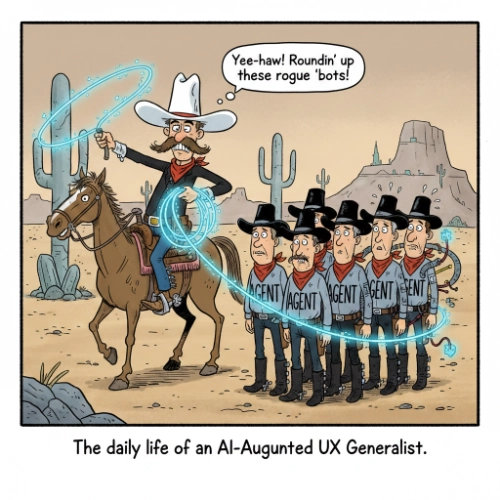
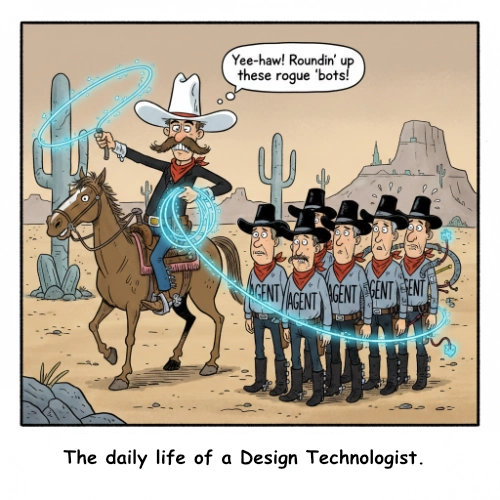
feat(arch): unify visual ownership & implement 3-phase a11y handshake
- Integrated 'Creative Director' ownership into index prose for site-wide visual context.
- Implemented <picture> tags for WebP/JPG art direction across project slides.
- Synchronized 2-stage Alt-Text (Preview vs. Full size) for 'Diagnostic Empathy' narrative.
- Refactored script.js to dynamically update aria-label/aria-controls on title-links.
- Aligned 'Design Technologist' cartoon title with updated project branding.

Changed region(s): [[0.12, 0.87, 0.84, 0.93]]

diff --git a/projects.html b/projects.html
@@ -92,7 +92,7 @@
                   <img
                     src="images/modern-tic-tac-toe-md.webp"
                     class="slideshow__image"
-                    alt="UI of a Tic-Tac-Toe game using the Minimax algorithm"
+                    alt="Preview: A 'Cyber-Theme' Tic-Tac-Toe game board engineered by David Villers. The view is focused on the neon-green hex-grid and custom microprocessor CPU icons, with the difficulty controls partially cropped at the top."
                     data-target="#tic-tac-toe-details"
                   />
                 </div>
@@ -100,7 +100,7 @@
                   <img
                     src="images/todo-app-md.webp"
                     class="slideshow__image"
-                    alt="TaskMaster interface showing dark mode and persistent state task management"
+                    alt="Preview: The 'TaskMaster' dark-mode interface engineered by David Villers. A high-contrast task list featuring active input controls and a visible theme-engine toggle."
                     data-target="#to-do-app-details"
                   />
                 </div>
@@ -108,17 +108,19 @@
                   <img
                     src="images/portfolio-screenshot-01-md.webp"
                     class="slideshow__image"
-                    alt="Portfolio homepage showcasing fluid typography and BEM architecture"
+                    alt="Preview: A development screenshot of the portfolio built by David Villers. The view centers on David’s professional portrait and the 'Human-Centric' introduction header, with the navigational and technical sections of the interface cropped out."
                     data-target="#portfolio-details"
                   />
                 </div>
                 <div class="slideshow__slide" data-title="Interface & Integration: Asynchronous Data">
-                  <img
-                    src="images/api-fun-center-md.webp"
-                    class="slideshow__image"
-                    alt="Dashboard integrating multiple third-party asynchronous API streams"
-                    data-target="#api-fun-center-details"
-                  />
+                  <picture>
+                    <source srcset="images/api-fun-center-md.webp" type="image/webp" />
+                    <img
+                      src="images/api-fun-center-md.jpg"
+                      class="slideshow__image"
+                      alt="Preview: The 'Ultimate API Fun Center' dashboard engineered by David Villers. This view focuses on the 'Useless Fact' and 'Cat Fact' generator cards with interactive blue and purple buttons, representing the primary asynchronous data streams."
+                    />
+                  </picture>
                 </div>
 
                 <a
@@ -182,8 +184,15 @@
       <section class="feature-block feature-block--first" id="project-intro">
         <div class="feature-block__grid">
           <div class="feature-block__media">
-            <img src="images/dain-miller-sadle-reigns-quote-md.webp" alt="Diverse group" class="feature-block__image" />
+            <picture>
+              <source srcset="images/dain-miller-sadle-reigns-quote-md.webp" type="image/webp" />
+              <img
+                src="images/dain-miller-sadle-reigns-quote-md.jpg"
+                alt="A transcendental silhouette of a horse and rider, where the internal forms are composed of a swirling cosmic universe and astrological energy lines. The horse’s tail subtly breaks the light-grey focal boundary into the outer white frame, symbolizing the kinetic energy and uncontained power of a perfectly calibrated 'Flow State' between Pilot and System."
+                class="feature-block__image"
+            /></picture>
           </div>
+
           <div class="feature-block__content">
             <h2 class="feature-block__title--column">Systems-Driven Engineering: The Auditor’s Archive</h2>
 
@@ -208,8 +217,15 @@
       <section id="tic-tac-toe-details" class="feature-block feature-block--alt" tabindex="-1">
         <div class="feature-block__grid feature-block__grid--reverse">
           <div class="feature-block__media">
-            <img src="images/modern-tic-tac-toe-md.webp" alt="Tic-Tac-Toe" class="feature-block__image" />
+            <picture>
+              <source srcset="images/modern-tic-tac-toe-md.webp" type="image/webp" />
+              <img
+                src="images/modern-tic-tac-toe-md.jpg"
+                alt="Full size: The high-contrast Tic-Tac-Toe interface by David Villers. This uncropped view reveals the full 'Cyber-Theme' UI, including the Easy, Medium, and Hard difficulty selectors. The board showcases custom user icons and microprocessor CPU icons, illustrating the Minimax algorithm's recursive state evaluation and HTML5 Canvas integration."
+                class="feature-block__image"
+            /></picture>
           </div>
+
           <div class="feature-block__content">
             <h2 class="feature-block__title--column">Logic & State: Recursive Engineering</h2>
 
@@ -240,8 +256,16 @@
       <section id="to-do-app-details" class="feature-block" tabindex="-1">
         <div class="feature-block__grid">
           <div class="feature-block__media">
-            <img src="images/todo-app-md.webp" alt="To-Do App" class="feature-block__image" />
+            <picture>
+              <source srcset="images/todo-app-md.webp" type="image/webp" />
+              <img
+                src="images/todo-app-md.jpg"
+                alt="Full size: The high-fidelity 'TaskMaster' interface by David Villers. This view confirms the accessible dark-mode UI, featuring the red 'delete' controls and the grey 'Undo' state-history buffer. The sun-icon toggle demonstrates the CSS Variable-driven Theme Engine designed for inclusive, high-contrast usability."
+                class="feature-block__image"
+              />
+            </picture>
           </div>
+
           <div class="feature-block__content">
             <h2 class="feature-block__title--column">Inclusive Design: Persistent Task Architectures</h2>
 
@@ -275,7 +299,13 @@
       <section id="portfolio-details" class="feature-block feature-block--alt" tabindex="-1">
         <div class="feature-block__grid feature-block__grid--reverse">
           <div class="feature-block__media">
-            <img src="images/portfolio-screenshot-01-md.webp" alt="Portfolio Case Study" class="feature-block__image" />
+            <picture>
+              <source srcset="images/portfolio-screenshot-01-md.webp" type="image/webp" />
+              <img
+                src="images/portfolio-screenshot-01-md.jpg"
+                alt="Full size: A mobile-responsive development screenshot of the portfolio by creator David Villers. This uncropped view reveals the full layout, including the top navigation bar with a magenta menu. It showcases David’s portrait against a background of 'conceptual noise,' serving as a visual metaphor for his ability to refactor complex data into the high-performance digital architecture seen here."
+                class="feature-block__image"
+            /></picture>
           </div>
           <div class="feature-block__content">
             <h2 class="feature-block__title--column">The Meta-Study: Systemic Design Engineering</h2>
@@ -316,7 +346,13 @@
       <section id="api-fun-center-details" class="feature-block" tabindex="-1">
         <div class="feature-block__grid">
           <div class="feature-block__media">
-            <img src="images/api-fun-center-md.webp" alt="API Fun Center" class="feature-block__image" />
+            <picture>
+              <source srcset="images/api-fun-center-md.webp" type="image/webp" />
+              <img
+                src="images/api-fun-center-md.jpg"
+                alt="Full size: The 'Ultimate API Fun Center' dashboard by creator David Villers. This uncropped architectural view reveals the complete modular layout, including the 'Random Dog Picture' generator header. The UI demonstrates David’s unified system for handling concurrent Fetch API requests and exception handling across multiple third-party data streams."
+                class="feature-block__image"
+            /></picture>
           </div>
           <div class="feature-block__content">
             <h2 class="feature-block__title--column">Interface & Integration: Asynchronous Data Streams</h2>

diff --git a/index.html b/index.html
@@ -88,11 +88,14 @@
       <section class="feature-block feature-block--first" id="intro">
         <div class="feature-block__grid">
           <div class="feature-block__media">
-            <img
-              src="images/human-digital-meditation-md.webp"
-              alt="A transcendental anatomical visualization in the style of Alex Grey, featuring a translucent human figure in a meditative pose. The internal nervous system and skeletal structure are visible, glowing with pine-green and magenta energy that seamlessly transitions into a precise digital wireframe and geometric grid, symbolizing the bridge between biological systems and digital architecture."
-              class="feature-block__image"
-            />
+            <picture>
+              <source srcset="images/human-digital-meditation-md.webp" type="image/webp" />
+
+              <img
+                src="images/human-digital-meditation-md.jpg"
+                alt="A high-fidelity anatomical visualization depicting the synthesis of biological systems and digital architecture. A translucent figure in a meditative pose reveals a glowing nervous system calibrated with pine-green and magenta energy. The organic form seamlessly transitions into a precise digital wireframe and geometric grid, symbolizing the diagnostic empathy required to bridge human well-being with technical performance."
+                class="feature-block__image"
+            /></picture>
           </div>
 
           <div class="feature-block__content">
@@ -107,8 +110,12 @@
 
             <p class="feature-block__text">
               My transition into the digital space was a natural evolution of my affinity for art, psychology, and
-              systematic problem-solving. Below, you'll find a gallery of my favorite UX principles, paired with custom
-              AI-assisted imagery tailored to reflect my unique perspective on empathy and technical mastery.
+              systematic problem-solving.
+              <strong
+                >The imagery throughout this portfolio—from the principle gallery below to the project archive—is
+                custom-crafted through my own AI-assisted prompts, designed</strong
+              >
+              to reflect my unique perspective on empathy and technical mastery.
             </p>
 
             <h3 class="feature-block__jump-link">Jump to section:</h3>
@@ -135,11 +142,13 @@
       <section class="feature-block feature-block--alt feature-block--storyteller" id="ken-robinson">
         <div class="feature-block__grid feature-block__grid--reverse">
           <div class="feature-block__media">
-            <img
-              src="images/flying-steam-engine-md.webp"
-              alt='A fantastical steampunk flying train with prominent wings and smoking chimneys soars through sunlit clouds above a detailed, elaborate cityscape at golden hour, embodying "Curiosity is the engine of achievement."'
-              class="feature-block__image"
-            />
+            <picture>
+              <source srcset="images/flying-steam-engine-md.webp" type="image/webp" />
+              <img
+                src="images/flying-steam-engine-md.jpg"
+                alt="A master-level conceptual visualization of a high-performance 'Creativity Engine'—a winged steampunk locomotive soaring above a golden-hour cityscape. The imagery serves as a metaphor for the Zeigarnik Effect, where the complex, mechanical architecture of the flying train represents the 'Open Loops' of curiosity that drive achievement and continuous exploration."
+                class="feature-block__image"
+            /></picture>
           </div>
 
           <div class="feature-block__content">
@@ -163,11 +172,13 @@
       <section class="feature-block feature-block--storyteller" id="inclusive-design">
         <div class="feature-block__grid">
           <div class="feature-block__media">
-            <img
-              src="images/curb-cut-schematic-md.webp"
-              alt="A technical UX schematic on aged parchment illustrating the 'Curb-Cut Effect.' The diagram maps the intersection of human movement and design, showing how a single 'Universal Infrastructure' solution—an integrated ramp—facilitates a 'Targeted User Path' for a wheelchair user while providing 'Situational Ergonomics' for cyclists, parents with strollers, and travelers."
-              class="feature-block__image"
-            />
+            <picture>
+              <source srcset="images/curb-cut-schematic-md.webp" type="image/webp" />
+              <img
+                src="images/curb-cut-schematic-md.jpg"
+                alt="A technical schematic rendered on aged parchment, illustrating the physics of the 'Curb-Cut Effect.' The diagram maps the convergence of human movement and universal infrastructure, demonstrating how a single geometric optimization—an integrated ramp—serves as a high-performance solution for diverse mobility profiles, from wheelchair users to parents with strollers."
+                class="feature-block__image"
+            /></picture>
           </div>
 
           <div class="feature-block__content">
@@ -192,11 +203,13 @@
       <section class="feature-block feature-block--alt feature-block--storyteller" id="designing-for-people">
         <div class="feature-block__grid feature-block__grid--reverse">
           <div class="feature-block__media">
-            <img
-              src="images/designing-for-people-md.webp"
-              alt="Conceptual image depicting a human mind integrated with mechanical gears, illustrating the importance of understanding human cognition when designing technology."
-              class="feature-block__image"
-            />
+            <picture>
+              <source srcset="images/designing-for-people-md.webp" type="image/webp" />
+              <img
+                src="images/designing-for-people-md.jpg"
+                alt="A technical anatomical profile of a human head in a minimalist blueprint style. The cranium is filled with an intricate assembly of layered mechanical gears and clockwork, connected by fine circuit lines. This visual illustrates the 'Cognitive Engine,' representing the mechanical logic of human thought as the primary hardware for design."
+                class="feature-block__image"
+            /></picture>
           </div>
 
           <div class="feature-block__content">
@@ -221,11 +234,13 @@
       <section class="feature-block feature-block--storyteller" id="interface-to-intuition">
         <div class="feature-block__grid">
           <div class="feature-block__media">
-            <img
-              src="images/dain-miller-sadle-reigns-quote-md.webp"
-              alt="A conceptual digital illustration depicting a silhouetted figure confidently riding a glowing wireframe horse..."
-              class="feature-block__image"
-            />
+            <picture>
+              <source srcset="images/dain-miller-sadle-reigns-quote-md.webp" type="image/webp" />
+              <img
+                src="images/dain-miller-sadle-reigns-quote-md.jpg"
+                alt="A transcendental silhouette of a horse and rider, where the internal forms are composed of a swirling cosmic universe and astrological energy lines. The horse’s tail subtly breaks the light-grey focal boundary into the outer white frame, symbolizing the kinetic energy and uncontained power of a perfectly calibrated 'Flow State' between Pilot and System."
+                class="feature-block__image"
+            /></picture>
           </div>
 
           <div class="feature-block__content">

diff --git a/about.html b/about.html
@@ -91,7 +91,14 @@
       <section class="feature-block feature-block--first">
         <div class="feature-block__grid">
           <div class="feature-block__media">
-            <img src="images/profilepic01-md.webp" alt="David Villers" class="feature-block__image" />
+            <picture>
+              <source srcset="images/profilepic01-md.webp" type="image/webp" />
+
+              <img
+                src="images/profilepic01-md.jpg"
+                alt="A professional portrait of David Villers, positioned as the human anchor in front of a dense, multi-colored AI-generated whiteboard. David is wearing a crisp blue collared button-up shirt, set against a background of schematic gibberish, conceptual sketches, and diagrammatic noise. The imagery serves as a visual metaphor for the 'Complex Mess'—the raw, unrefined data that David specializes in auditing and refactoring into high-performance digital architecture."
+                class="feature-block__image"
+            /></picture>
           </div>
 
           <div class="feature-block__content">
@@ -116,12 +123,16 @@
       <section class="feature-block feature-block--alt" id="about-empathy">
         <div class="feature-block__grid feature-block__grid--reverse">
           <div class="feature-block__media">
-            <img
-              src="images/digital-anatomy-hand-reaching-md.webp"
-              alt="A vibrant, transcendental anatomical visualization of a single human hand reaching upward, in the style of Alex Grey. The hand is translucent, revealing an internal network of glowing pine-green nerves and magenta energy meridians. At the fingertips, the organic anatomy transitions into neon fiber-optic lines, forming a precise 3D geometric wireframe and digital lattice against a dark, atmospheric void."
-              class="feature-block__image"
-            />
+            <picture>
+              <source srcset="images/digital-anatomy-hand-reaching-md.webp" type="image/webp" />
+
+              <img
+                src="images/digital-anatomy-hand-reaching-md.jpg"
+                alt="A transcendental visualization of a human hand reaching upward, where organic anatomy meets the digital grid. Glowing pine-green nerves and magenta energy meridians transition at the fingertips into neon fiber-optic lines, forming a precise 3D geometric wireframe. This represents the 'Tooling Matrix'—the point where diagnostic empathy becomes technical execution within a scalable digital architecture."
+                class="feature-block__image"
+            /></picture>
           </div>
+
           <div class="feature-block__content">
             <h2 class="feature-block__title--column">The Tooling Matrix: Systematic Problem Solving</h2>
 
@@ -144,12 +155,14 @@
       <section class="feature-block" id="about-bridge">
         <div class="feature-block__grid">
           <div class="feature-block__media">
-            <img
-              src="images/human-digital-meditation-head-zoom-md.webp"
-              alt="A high-fidelity macro close-up of the human profile from the Alex Grey-style anchor image, focusing on the head and temple. The translucent skull reveals a glowing magenta neural network that projects outward, resolving into a perfectly aligned, white 3D geometric grid, symbolizing the bridge between human intuition and scalable digital architecture."
-              class="feature-block__image"
-            />
+            <picture>
+              <source srcset="images/human-digital-meditation-head-zoom-md.webp" type="image/webp" />
+              <img
+                src="images/human-digital-meditation-head-zoom-md.jpg"
+                alt="A technical macro close-up of a translucent human head in a meditative state. The figure is rendered in glowing pine-green, revealing internal neural pathways. A vibrant magenta energy radiates from the center of the forehead, expanding into a complex, symmetrical 3D geometric lattice. This visual represents the 'Handshake' between internal human intuition and external digital systems."
+            /></picture>
           </div>
+
           <div class="feature-block__content">
             <h2 class="feature-block__title--column">Why UX Engineering?</h2>
             <p class="feature-block__text">
@@ -167,12 +180,16 @@
       <section class="feature-block feature-block--alt" id="about-future">
         <div class="feature-block__grid feature-block__grid--reverse">
           <div class="feature-block__media">
-            <img
-              src="images/agent-roundup-cartoon-md.webp"
-              alt="A humorous 'Sunday Morning' style comic of a cowboy in a white hat on horseback, using a lasso to wrangle a group of outlaw cowboys. The outlaws wear black hats and shirts labeled 'Agent,' serving as a pun for 'Agent Wrangling' in AI-augmented workflows."
-              class="feature-block__image"
-            />
+            <picture>
+              <source srcset="images/agent-roundup-cartoon-md.webp" type="image/webp" />
+
+              <img
+                src="images/agent-roundup-cartoon-md.jpg"
+                alt="A humorous comic titled 'The daily life of a Design Technologist.' A cowboy on horseback uses a glowing energy lasso to synchronize a group of identical AI agents. This serves as a metaphor for the 'Weaver' archetype—bridging the gap between conceptual AI output and structured, scalable digital architecture through expert orchestration."
+                class="feature-block__image"
+            /></picture>
           </div>
+
           <div class="feature-block__content">
             <h2 class="feature-block__title--column">Ready for the Next Challenge</h2>
             <p class="feature-block__text">
@@ -188,11 +205,14 @@
       <section class="feature-block" id="about-connect">
         <div class="feature-block__grid">
           <div class="feature-block__media">
-            <img
-              src="images/digital-to-human-handshake-md.webp"
-              alt="A cinematic macro shot representing the ‘Handshake Protocol’: A realistic human hand meeting a translucent, digital wireframe hand in a firm handshake. Glowing magenta and pine-green energy emits from the point of contact, set against a dark background of blurred code and architectural blueprints, symbolizing the union of human insight and technical proficiency."
-              class="feature-block__image"
-            />
+            <picture>
+              <source srcset="images/digital-to-human-handshake-md.webp" type="image/webp" />
+
+              <img
+                src="images/digital-to-human-handshake-md.jpg"
+                alt="A cinematic macro shot of a firm handshake between a realistic human hand and a translucent digital wireframe hand. A vibrant, glowing pine-green circle illuminates the point of contact, emitting magenta energy pulses. The background consists of a dark void filled with blurred architectural code and blueprints, symbolizing the 'Handshake Protocol'—the seamless integration of human insight and technical proficiency."
+                class="feature-block__image"
+            /></picture>
           </div>
 
           <div class="feature-block__content">

diff --git a/js/script.js b/js/script.js
@@ -99,8 +99,22 @@ document.addEventListener("DOMContentLoaded", (event) => {
         const currentImage = currentSlide.querySelector(".slideshow__image");
         const currentTarget = currentImage ? currentImage.getAttribute("data-target") : "#";
 
+        // 1. Update the visible text
         slideTitleElement.textContent = currentTitle;
+
+        // 2. Update the navigation destination
         slideTitleLink.setAttribute("href", currentTarget);
+
+        // 3. THE HANDSHAKE: Combining Title + Action for absolute clarity
+        // This tells them exactly WHAT they are viewing in full size.
+        slideTitleLink.setAttribute("aria-label", `${currentTitle} - View full size uncropped image`);
+
+        // 4. THE CONNECTION: Link the pill to the target section ID
+        if (currentTarget.startsWith("#")) {
+          slideTitleLink.setAttribute("aria-controls", currentTarget.substring(1));
+        } else {
+          slideTitleLink.removeAttribute("aria-controls");
+        }
       }
     }
 
